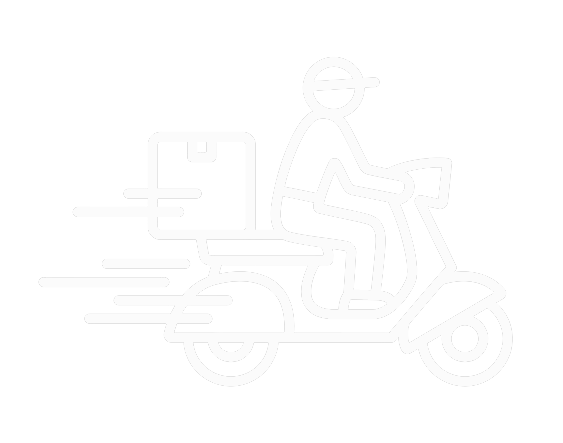
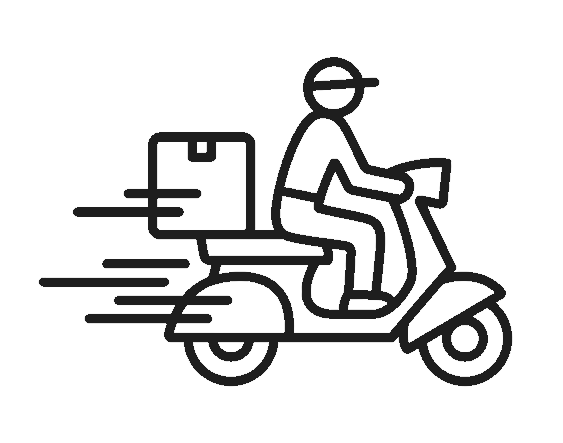
cambio img y fix links

Changed region(s): [[0.0604, 0.1174, 0.9059, 0.8804]]

diff --git a/html/pago.html b/html/pago.html
@@ -42,7 +42,7 @@
           <div class="collapse navbar-collapse" id="navbar-toggler">
               <ul class="navbar-nav mr-auto justify-content-start align-items-center">
                   <li class="nav-item">
-                      <a class="nav-link" aria-current="page" href="#" style="color: white;">Destilados</a>
+                      <a class="nav-link" aria-current="page" href="destilados.html" style="color: white;">Destilados</a>
                   </li>
                   <li class="nav-item">
                       <a class="nav-link" href="licores.html" style="color: white;">Licores</a>

diff --git a/html/carrito.html b/html/carrito.html
@@ -40,7 +40,7 @@
         <div class="collapse navbar-collapse" id="navbar-toggler">
             <ul class="navbar-nav mr-auto justify-content-start align-items-center">
                 <li class="nav-item">
-                    <a class="nav-link" aria-current="page" href="#" style="color: white;">Destilados</a>
+                    <a class="nav-link" aria-current="page" href="destilados.html" style="color: white;">Destilados</a>
                 </li>
                 <li class="nav-item">
                     <a class="nav-link" href="licores.html" style="color: white;">Licores</a>

diff --git a/html/index.html b/html/index.html
@@ -42,7 +42,7 @@
         <div class="collapse navbar-collapse" id="navbar-toggler">
             <ul class="navbar-nav mr-auto justify-content-start align-items-center">
                 <li class="nav-item">
-                    <a class="nav-link" aria-current="page" href="#" style="color: white;">Destilados</a>
+                    <a class="nav-link" aria-current="page" href="destilados.html" style="color: white;">Destilados</a>
                 </li>
                 <li class="nav-item">
                     <a class="nav-link" href="licores.html" style="color: white;">Licores</a>

diff --git a/html/iniciarsesion.html b/html/iniciarsesion.html
@@ -41,7 +41,7 @@
         <div class="collapse navbar-collapse" id="navbar-toggler">
             <ul class="navbar-nav mr-auto justify-content-start align-items-center">
                 <li class="nav-item">
-                    <a class="nav-link" aria-current="page" href="#" style="color: white;">Destilados</a>
+                    <a class="nav-link" aria-current="page" href="destilados.html" style="color: white;">Destilados</a>
                 </li>
                 <li class="nav-item">
                     <a class="nav-link" href="licores.html" style="color: white;">Licores</a>

diff --git a/html/user.html b/html/user.html
@@ -42,7 +42,7 @@
         <div class="collapse navbar-collapse" id="navbar-toggler">
             <ul class="navbar-nav mr-auto justify-content-start align-items-center">
                 <li class="nav-item">
-                    <a class="nav-link" aria-current="page" href="#" style="color: white;">Destilados</a>
+                    <a class="nav-link" aria-current="page" href="destilados.html" style="color: white;">Destilados</a>
                 </li>
                 <li class="nav-item">
                     <a class="nav-link" href="licores.html" style="color: white;">Licores</a>

diff --git a/html/verproducto.html b/html/verproducto.html
@@ -42,7 +42,7 @@
         <div class="collapse navbar-collapse" id="navbar-toggler">
             <ul class="navbar-nav mr-auto justify-content-start align-items-center">
                 <li class="nav-item">
-                    <a class="nav-link" aria-current="page" href="#" style="color: white;">Destilados</a>
+                    <a class="nav-link" aria-current="page" href="destilados.html" style="color: white;">Destilados</a>
                 </li>
                 <li class="nav-item">
                     <a class="nav-link" href="licores.html" style="color: white;">Licores</a>

diff --git a/html/cervezas.html b/html/cervezas.html
@@ -47,7 +47,7 @@
       <div class="collapse navbar-collapse" id="navbar-toggler">
           <ul class="navbar-nav mr-auto justify-content-start align-items-center">
               <li class="nav-item">
-                  <a class="nav-link" aria-current="page" href="#" style="color: white;">Destilados</a>
+                  <a class="nav-link" aria-current="page" href="destilados.html" style="color: white;">Destilados</a>
               </li>
               <li class="nav-item">
                   <a class="nav-link" href="licores.html" style="color: white;">Licores</a>

diff --git a/html/destilados.html b/html/destilados.html
@@ -47,7 +47,7 @@
       <div class="collapse navbar-collapse" id="navbar-toggler">
           <ul class="navbar-nav mr-auto justify-content-start align-items-center">
               <li class="nav-item">
-                  <a class="nav-link" aria-current="page" href="#" style="color: white;">Destilados</a>
+                  <a class="nav-link" aria-current="page" href="destilados.html" style="color: white;">Destilados</a>
               </li>
               <li class="nav-item">
                   <a class="nav-link" href="licores.html" style="color: white;">Licores</a>

diff --git a/html/espumantes.html b/html/espumantes.html
@@ -47,7 +47,7 @@
       <div class="collapse navbar-collapse" id="navbar-toggler">
           <ul class="navbar-nav mr-auto justify-content-start align-items-center">
               <li class="nav-item">
-                  <a class="nav-link" aria-current="page" href="#" style="color: white;">Destilados</a>
+                  <a class="nav-link" aria-current="page" href="destilados.html" style="color: white;">Destilados</a>
               </li>
               <li class="nav-item">
                   <a class="nav-link" href="licores.html" style="color: white;">Licores</a>

diff --git a/html/licores.html b/html/licores.html
@@ -47,7 +47,7 @@
       <div class="collapse navbar-collapse" id="navbar-toggler">
           <ul class="navbar-nav mr-auto justify-content-start align-items-center">
               <li class="nav-item">
-                  <a class="nav-link" aria-current="page" href="#" style="color: white;">Destilados</a>
+                  <a class="nav-link" aria-current="page" href="destilados.html" style="color: white;">Destilados</a>
               </li>
               <li class="nav-item">
                   <a class="nav-link" href="licores.html" style="color: white;">Licores</a>

diff --git a/html/vinos.html b/html/vinos.html
@@ -47,7 +47,7 @@
       <div class="collapse navbar-collapse" id="navbar-toggler">
           <ul class="navbar-nav mr-auto justify-content-start align-items-center">
               <li class="nav-item">
-                  <a class="nav-link" aria-current="page" href="#" style="color: white;">Destilados</a>
+                  <a class="nav-link" aria-current="page" href="destilados.html" style="color: white;">Destilados</a>
               </li>
               <li class="nav-item">
                   <a class="nav-link" href="licores.html" style="color: white;">Licores</a>

diff --git a/html/whiskies.html b/html/whiskies.html
@@ -47,7 +47,7 @@
       <div class="collapse navbar-collapse" id="navbar-toggler">
           <ul class="navbar-nav mr-auto justify-content-start align-items-center">
               <li class="nav-item">
-                  <a class="nav-link" aria-current="page" href="#" style="color: white;">Destilados</a>
+                  <a class="nav-link" aria-current="page" href="destilados.html" style="color: white;">Destilados</a>
               </li>
               <li class="nav-item">
                   <a class="nav-link" href="licores.html" style="color: white;">Licores</a>
